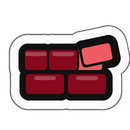
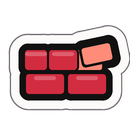
CACHE in a hotter brick red (#D22C40); the room glow follows
The designer's pick: brighter and hotter than the dark crimson. Held at dE76 >= 30 against every kind hue, room colour and state ring under normal,
protan and deutan vision (test_route_node_icons); tritan drops (least 9, against the elite room glow) and is reported in the notes, not held. The bricks, the
legend glyph and the cut-off look are re-exported in the new red; the CACHE room glow in street_route.tres matches.

Changed region(s): [[0.1846, 0.3077, 0.8615, 0.7385]]

diff --git a/tools/art_pipeline/route_nodes/icons.py b/tools/art_pipeline/route_nodes/icons.py
@@ -17,7 +17,7 @@ CREAM = (248, 245, 234)
 KIND = {
     "rest": dict(acc=(191, 115, 255), field=(46, 28, 76), hi=(86, 52, 132), mid=(150, 92, 214)),
     "workshop": dict(acc=(255, 209, 77), field=(72, 52, 14), hi=(122, 92, 28), mid=(214, 168, 46)),
-    "cache": dict(acc=(236, 92, 98), field=(60, 8, 18), hi=(136, 36, 46), mid=(136, 8, 28)),  # brick crimson (round 2: off FIGHT cyan)
+    "cache": dict(acc=(255, 140, 120), field=(60, 8, 18), hi=(220, 80, 96), mid=(210, 44, 64)),  # brick crimson (round 2: off FIGHT cyan)
 }
 
 
